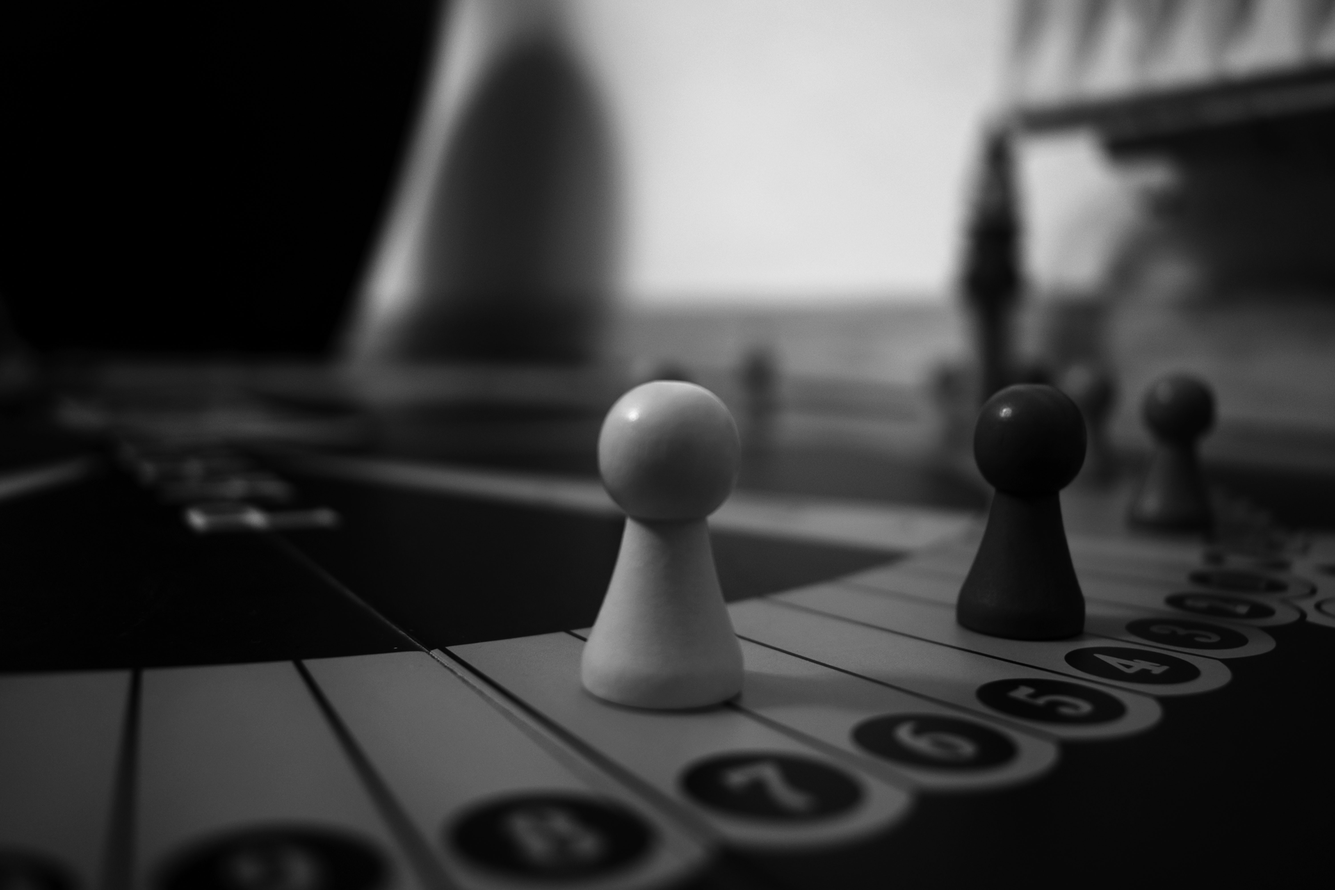
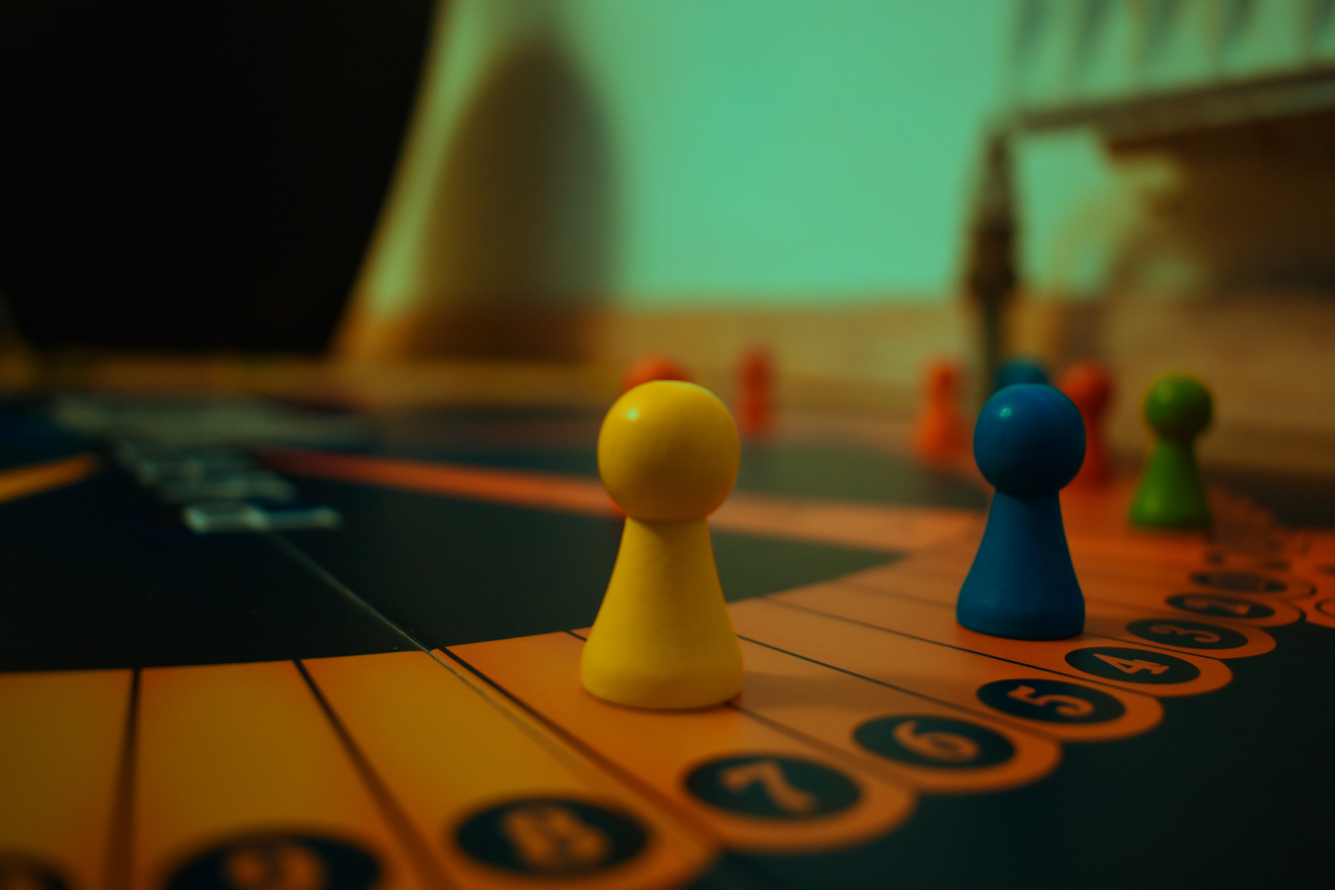
changeimages

diff --git a/about.html b/about.html
@@ -106,7 +106,7 @@
 						<div class="whitespace"></div>
 						<h5 data-aos="fade-up" data-aos-delay="250">Yes, I am a disco dancer</h5>
 						<br>
-						<p data-aos="fade-up" data-aos-delay="350">If you have watched my dance video by now, then you imagine, I am crazy sometimes when I am on my own.</p>
+						<p data-aos="fade-up" data-aos-delay="350">If you have watched my dance video by now, then you can imagine, I am crazy sometimes when I am on my own.</p>
 					</div>
 				</div>
 				<div class="whitespace"></div>

diff --git a/index.css b/index.css
@@ -473,9 +473,6 @@ h6{
     top: 18%;
 }
 
-iframe{
-	filter: grayscale(1); 
-}
 
 @media(max-width: 768px) {
 	.about{
